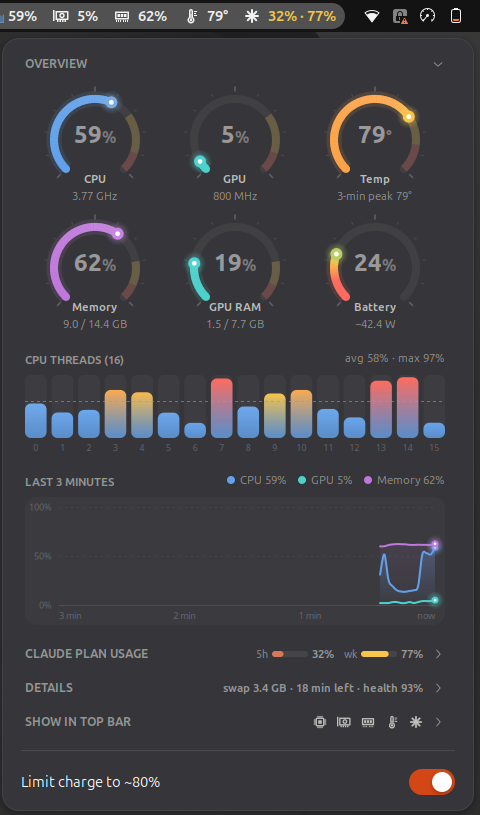
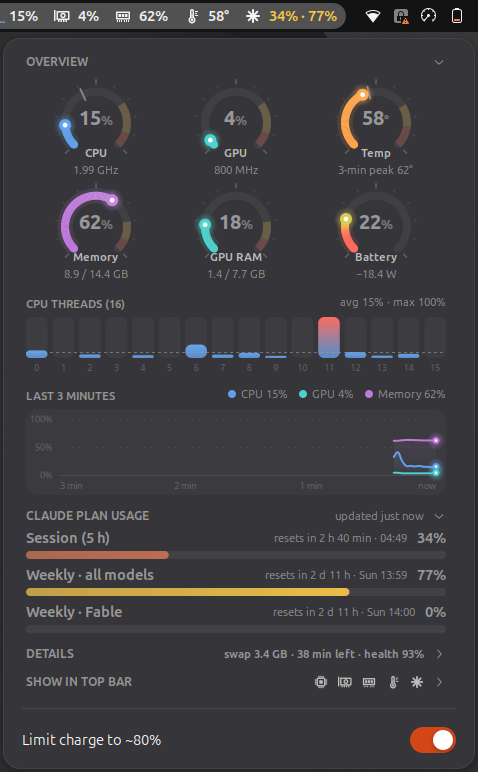
Compact the menu so Overview and Claude fit without scrolling
Smaller gauges, thread bars and graph, tighter group spacing, and each Claude
limit on two lines (title, reset time and percentage, then the bar).

diff --git a/widget.js b/widget.js
@@ -67,10 +67,10 @@ function fmtReset(ms) {
         return '';
     const minutes = (ms - Date.now()) / 60000;
     if (minutes <= 0)
-        return 'Resetting now';
+        return 'resetting now';
     const at = GLib.DateTime.new_from_unix_local(Math.floor(ms / 1000));
     const when = at.format(minutes < 1440 ? '%H:%M' : '%a %H:%M');
-    return `Resets in ${fmtDuration(minutes)} · ${when}`;
+    return `resets in ${fmtDuration(minutes)} · ${when}`;
 }
 
 function batteryIconName(bat) {
@@ -572,22 +572,22 @@ class MiniBar {
     }
 }
 
-// Title, percentage and a horizontal bar for one Claude plan limit.
+// Title, reset time and percentage on one line, bar below, for one Claude plan limit.
 class UsageBar {
     constructor(title) {
         this._fraction = 0;
         this._level = 'ok';
         this.actor = vbox('lm-usage', {x_expand: true});
         const header = new St.BoxLayout({x_expand: true});
-        header.add_child(label(title, 'lm-usage-title', {x_expand: true}));
-        this._percent = label('', 'lm-usage-percent');
+        header.add_child(label(title, 'lm-usage-title', {x_expand: true, y_align: Clutter.ActorAlign.CENTER}));
+        this._reset = label('', 'lm-usage-reset', {y_align: Clutter.ActorAlign.CENTER});
+        header.add_child(this._reset);
+        this._percent = label('', 'lm-usage-percent', {y_align: Clutter.ActorAlign.CENTER});
         header.add_child(this._percent);
         this.actor.add_child(header);
         this._bar = new St.DrawingArea({style_class: 'lm-bar', x_expand: true});
         this._bar.connect('repaint', a => this._draw(a));
         this.actor.add_child(this._bar);
-        this._reset = label('', 'lm-usage-reset');
-        this.actor.add_child(this._reset);
     }
 
     set(percent, resetText) {
@@ -819,7 +819,7 @@ export class LaptopMonitor {
             gpuMemory: new Gauge('GPU RAM', 'gpu', {warn: 80, crit: 92}),
             battery: new Gauge('Battery', 'battery', {warn: 20, crit: 10, inverted: true}),
         };
-        const gaugeLayout = new Clutter.GridLayout({column_homogeneous: true, row_spacing: 6});
+        const gaugeLayout = new Clutter.GridLayout({column_homogeneous: true, row_spacing: 2});
         const gauges = new St.Widget({layout_manager: gaugeLayout, style_class: 'lm-gauges', x_expand: true});
         Object.values(this._gauges).forEach((g, i) => gaugeLayout.attach(g.actor, i % 3, Math.floor(i / 3), 1, 1));
         this._gauges.battery.actor.visible = this._available.battery;
@@ -1140,7 +1140,7 @@ export class LaptopMonitor {
         // Leave room for the top bar, the charge switch and the menu's margins.
         const monitor = Main.layoutManager.findMonitorForActor(this._button) ?? Main.layoutManager.primaryMonitor;
         const workArea = Main.layoutManager.getWorkAreaForMonitor(monitor.index);
-        this._scroll.style = `max-height: ${Math.max(240, workArea.height - 150)}px;`;
+        this._scroll.style = `max-height: ${Math.max(240, workArea.height - 120)}px;`;
 
         this._chart.actor.queue_repaint();
         this._cores.actor.queue_repaint();

diff --git a/stylesheet.css b/stylesheet.css
@@ -36,14 +36,14 @@
 }
 
 .lm-content {
-  spacing: 4px;
+  spacing: 2px;
   min-width: 440px;
   padding-right: 6px;
 }
 
 .lm-group-header {
   border-radius: 10px;
-  padding: 7px 10px;
+  padding: 5px 10px;
 }
 
 .lm-group-header:hover,
@@ -64,8 +64,8 @@
 }
 
 .lm-group-body {
-  spacing: 8px;
-  padding: 2px 10px 10px;
+  spacing: 6px;
+  padding: 0 10px 6px;
 }
 
 .lm-group-note,
@@ -93,12 +93,12 @@
 }
 
 .lm-dial {
-  width: 108px;
-  height: 108px;
+  width: 88px;
+  height: 88px;
 }
 
 .lm-gauge-value {
-  font-size: 18pt;
+  font-size: 15pt;
   font-weight: 800;
   font-feature-settings: "tnum";
 }
@@ -127,16 +127,16 @@
 }
 
 .lm-chart {
-  height: 128px;
+  height: 86px;
 }
 
 .lm-cores {
-  height: 78px;
+  height: 56px;
 }
 
 /* Claude usage */
 .lm-usage-list {
-  spacing: 10px;
+  spacing: 7px;
 }
 
 .lm-usage {
@@ -228,5 +228,9 @@
 
 /* Threads and graph inside Overview */
 .lm-subheader {
-  padding-top: 10px;
+  padding-top: 6px;
+}
+
+.lm-usage-reset {
+  margin-right: 10px;
 }
